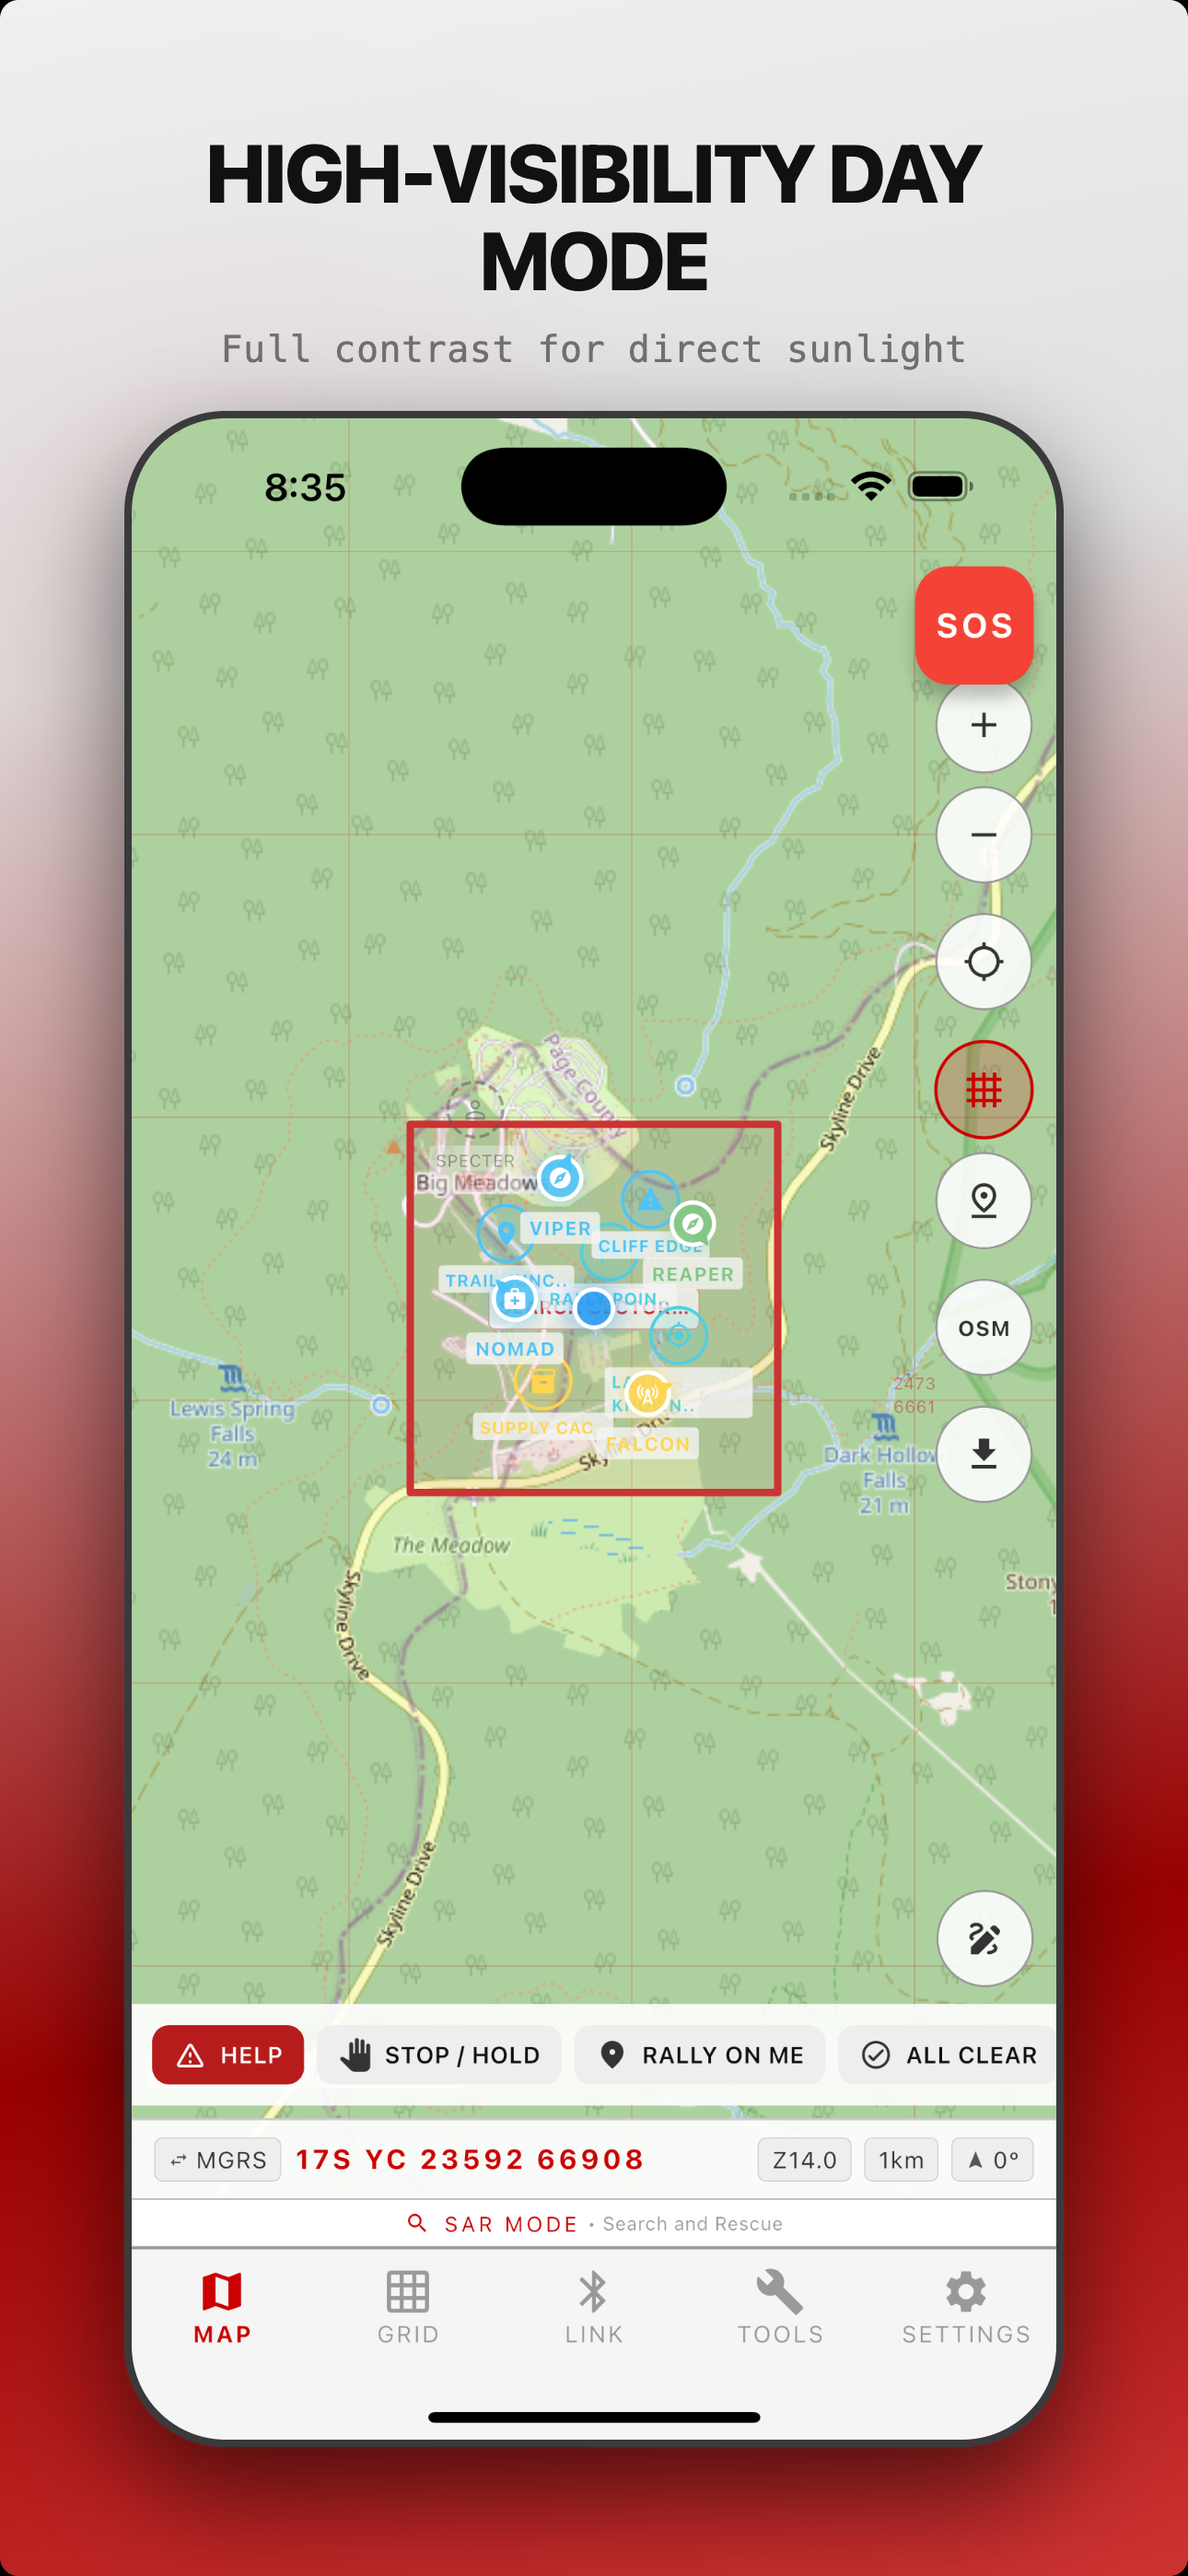
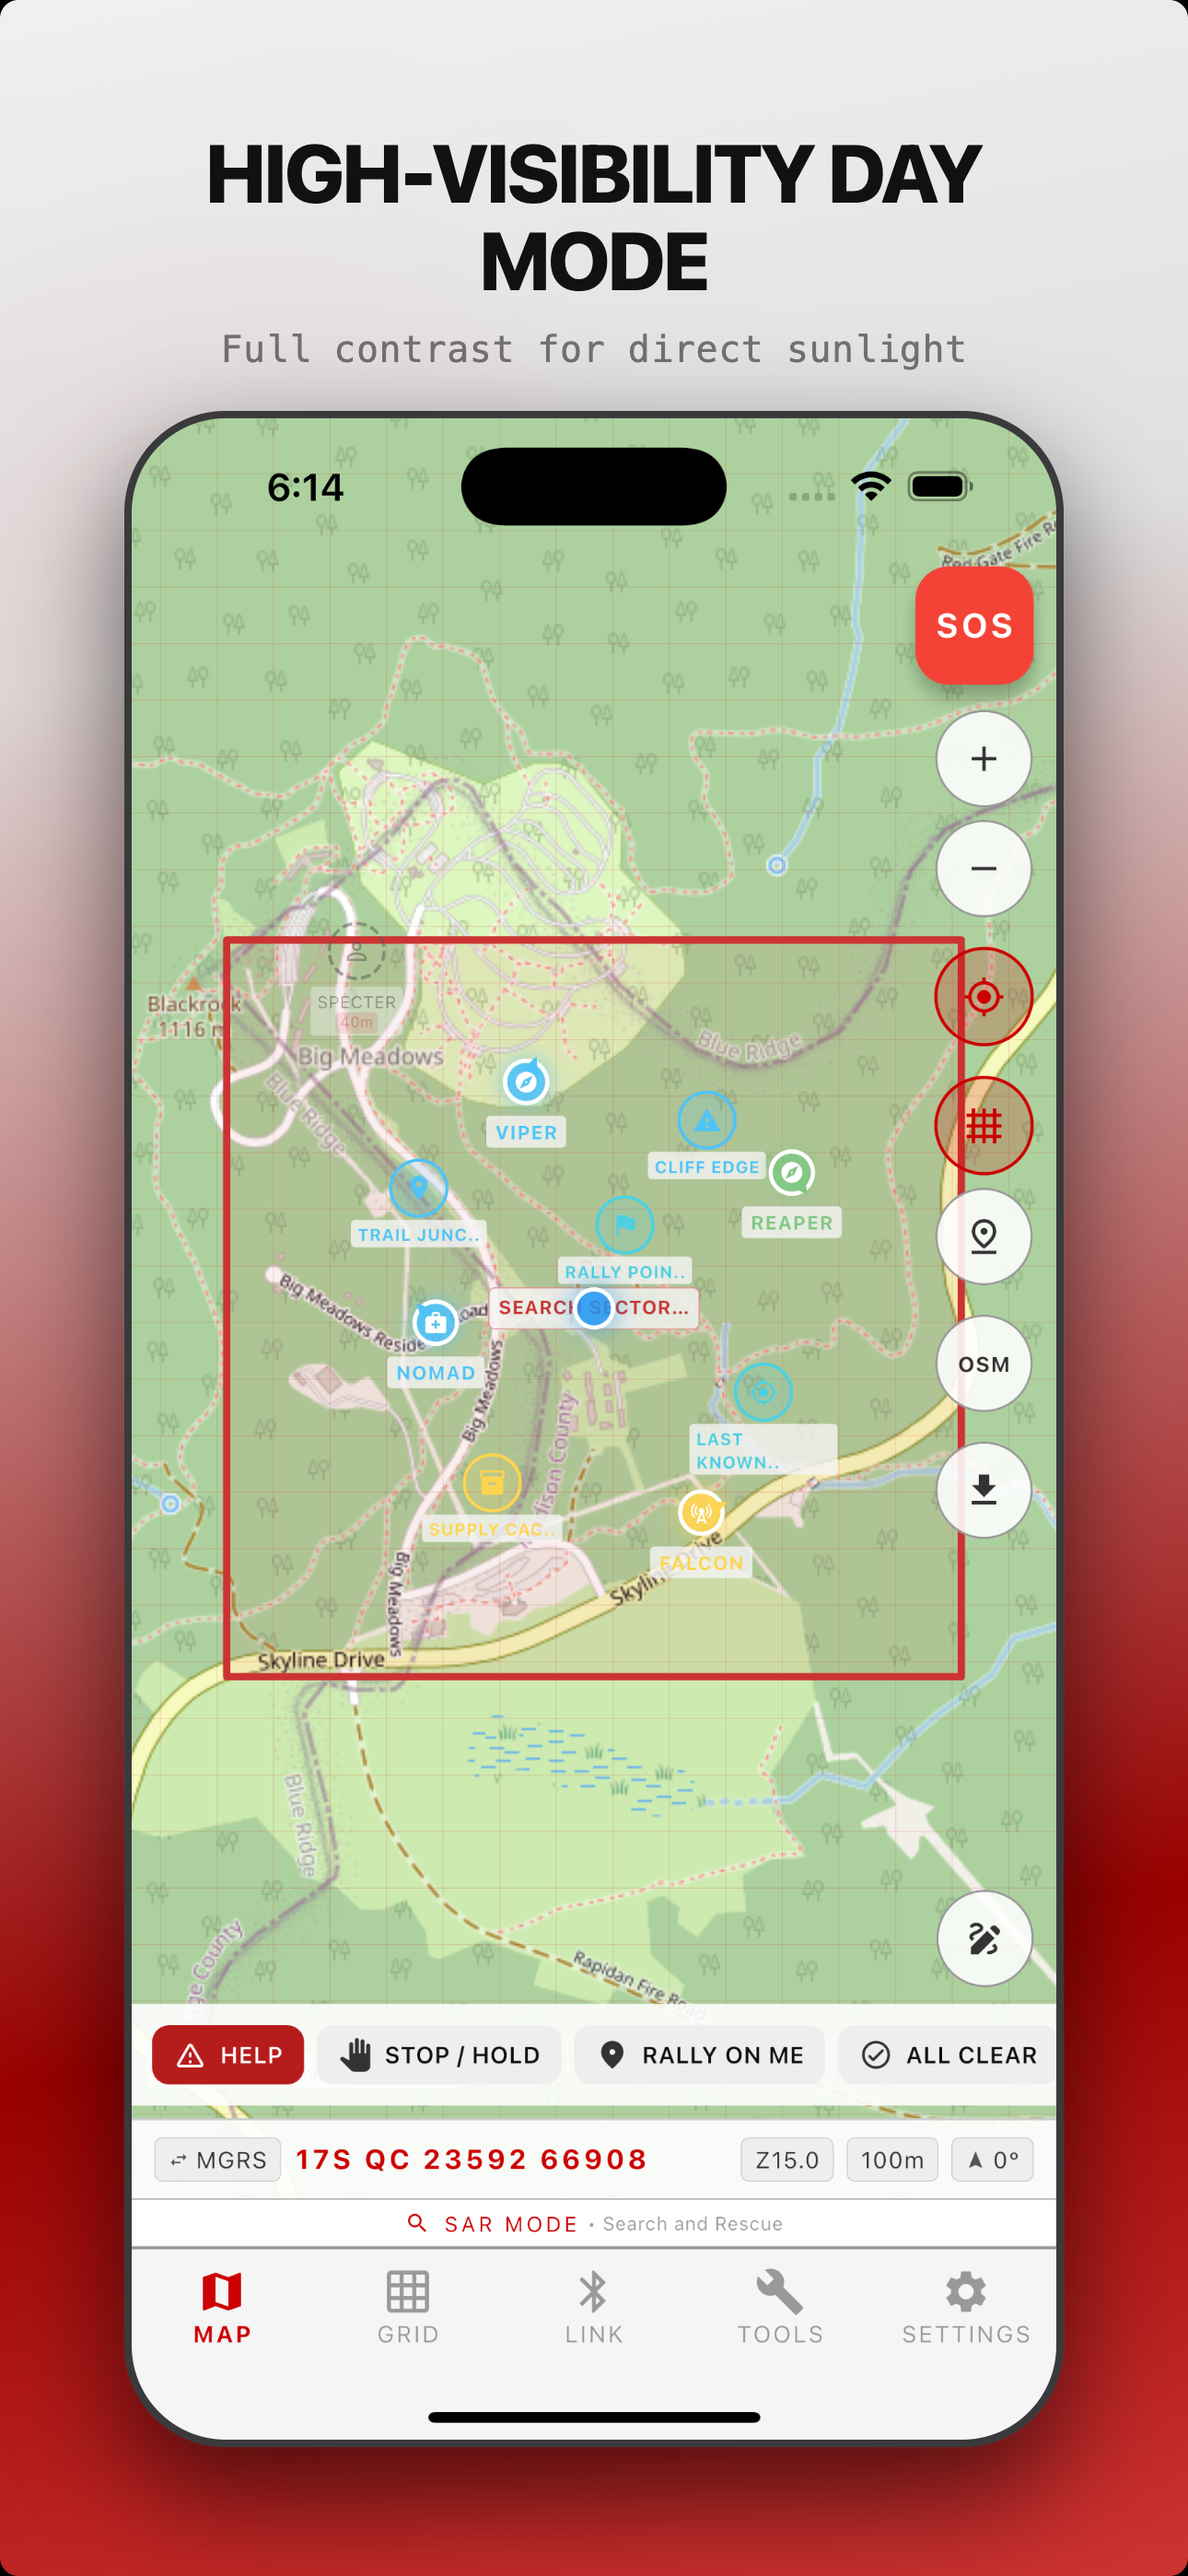
Fix map controller init crash, recapture all screenshots with correct MGRS
- Defer followPosition to post-frame callback to avoid FlutterMap controller
  crash on first build ("not rendered at least once")
- Recapture all 8 screenshots with corrected MGRS grid square letters
- Varied content per theme: Red map, Red grid, Red link, Red tools,
  Red settings, NVG grid, Blue Force link, Day White map

diff --git a/lib/main.dart b/lib/main.dart
@@ -34,13 +34,20 @@ const _deviceIdKey = 'red_grid_link_device_id';
 void main() async {
   WidgetsFlutterBinding.ensureInitialized();
 
-  // In debug mode, suppress the red error screen so the app remains
-  // usable for screenshots and testing. The assertion ("Tried to modify
-  // a provider while the widget tree was building") is a debug-only
-  // warning that does not affect release builds.
+  // In debug mode, log errors but keep the widget tree functional.
+  // The default red error screen replaces the ENTIRE widget, making
+  // the app unusable. This logs the error and shows a minimal indicator.
   if (kDebugMode) {
     ErrorWidget.builder = (FlutterErrorDetails details) {
-      return const SizedBox.shrink();
+      FlutterError.dumpErrorToConsole(details);
+      return Container(
+        color: const Color(0x88FF0000),
+        padding: const EdgeInsets.all(8),
+        child: Text(
+          details.exceptionAsString().split('\n').first,
+          style: const TextStyle(color: Color(0xFFFFFFFF), fontSize: 10),
+        ),
+      );
     };
   }
 

diff --git a/lib/ui/screens/map/map_screen.dart b/lib/ui/screens/map/map_screen.dart
@@ -121,9 +121,13 @@ class _MapScreenState extends ConsumerState<MapScreen> {
 
     // Feed GPS position to the map controller for auto-follow and recenter.
     // This bridges LocationService → MapControllerService reactively.
+    // Deferred to post-frame to avoid "FlutterMap not rendered yet" error
+    // on the very first build when the controller isn't initialized.
     if (gpsPosition != null) {
       final latLng = LatLng(gpsPosition.lat, gpsPosition.lon);
-      controllerService.followPosition(latLng);
+      WidgetsBinding.instance.addPostFrameCallback((_) {
+        if (mounted) controllerService.followPosition(latLng);
+      });
 
       // Position syncing to Field Link is handled by positionSyncProvider
       // in app.dart — runs on every tab, not just MAP. Boundary checks
